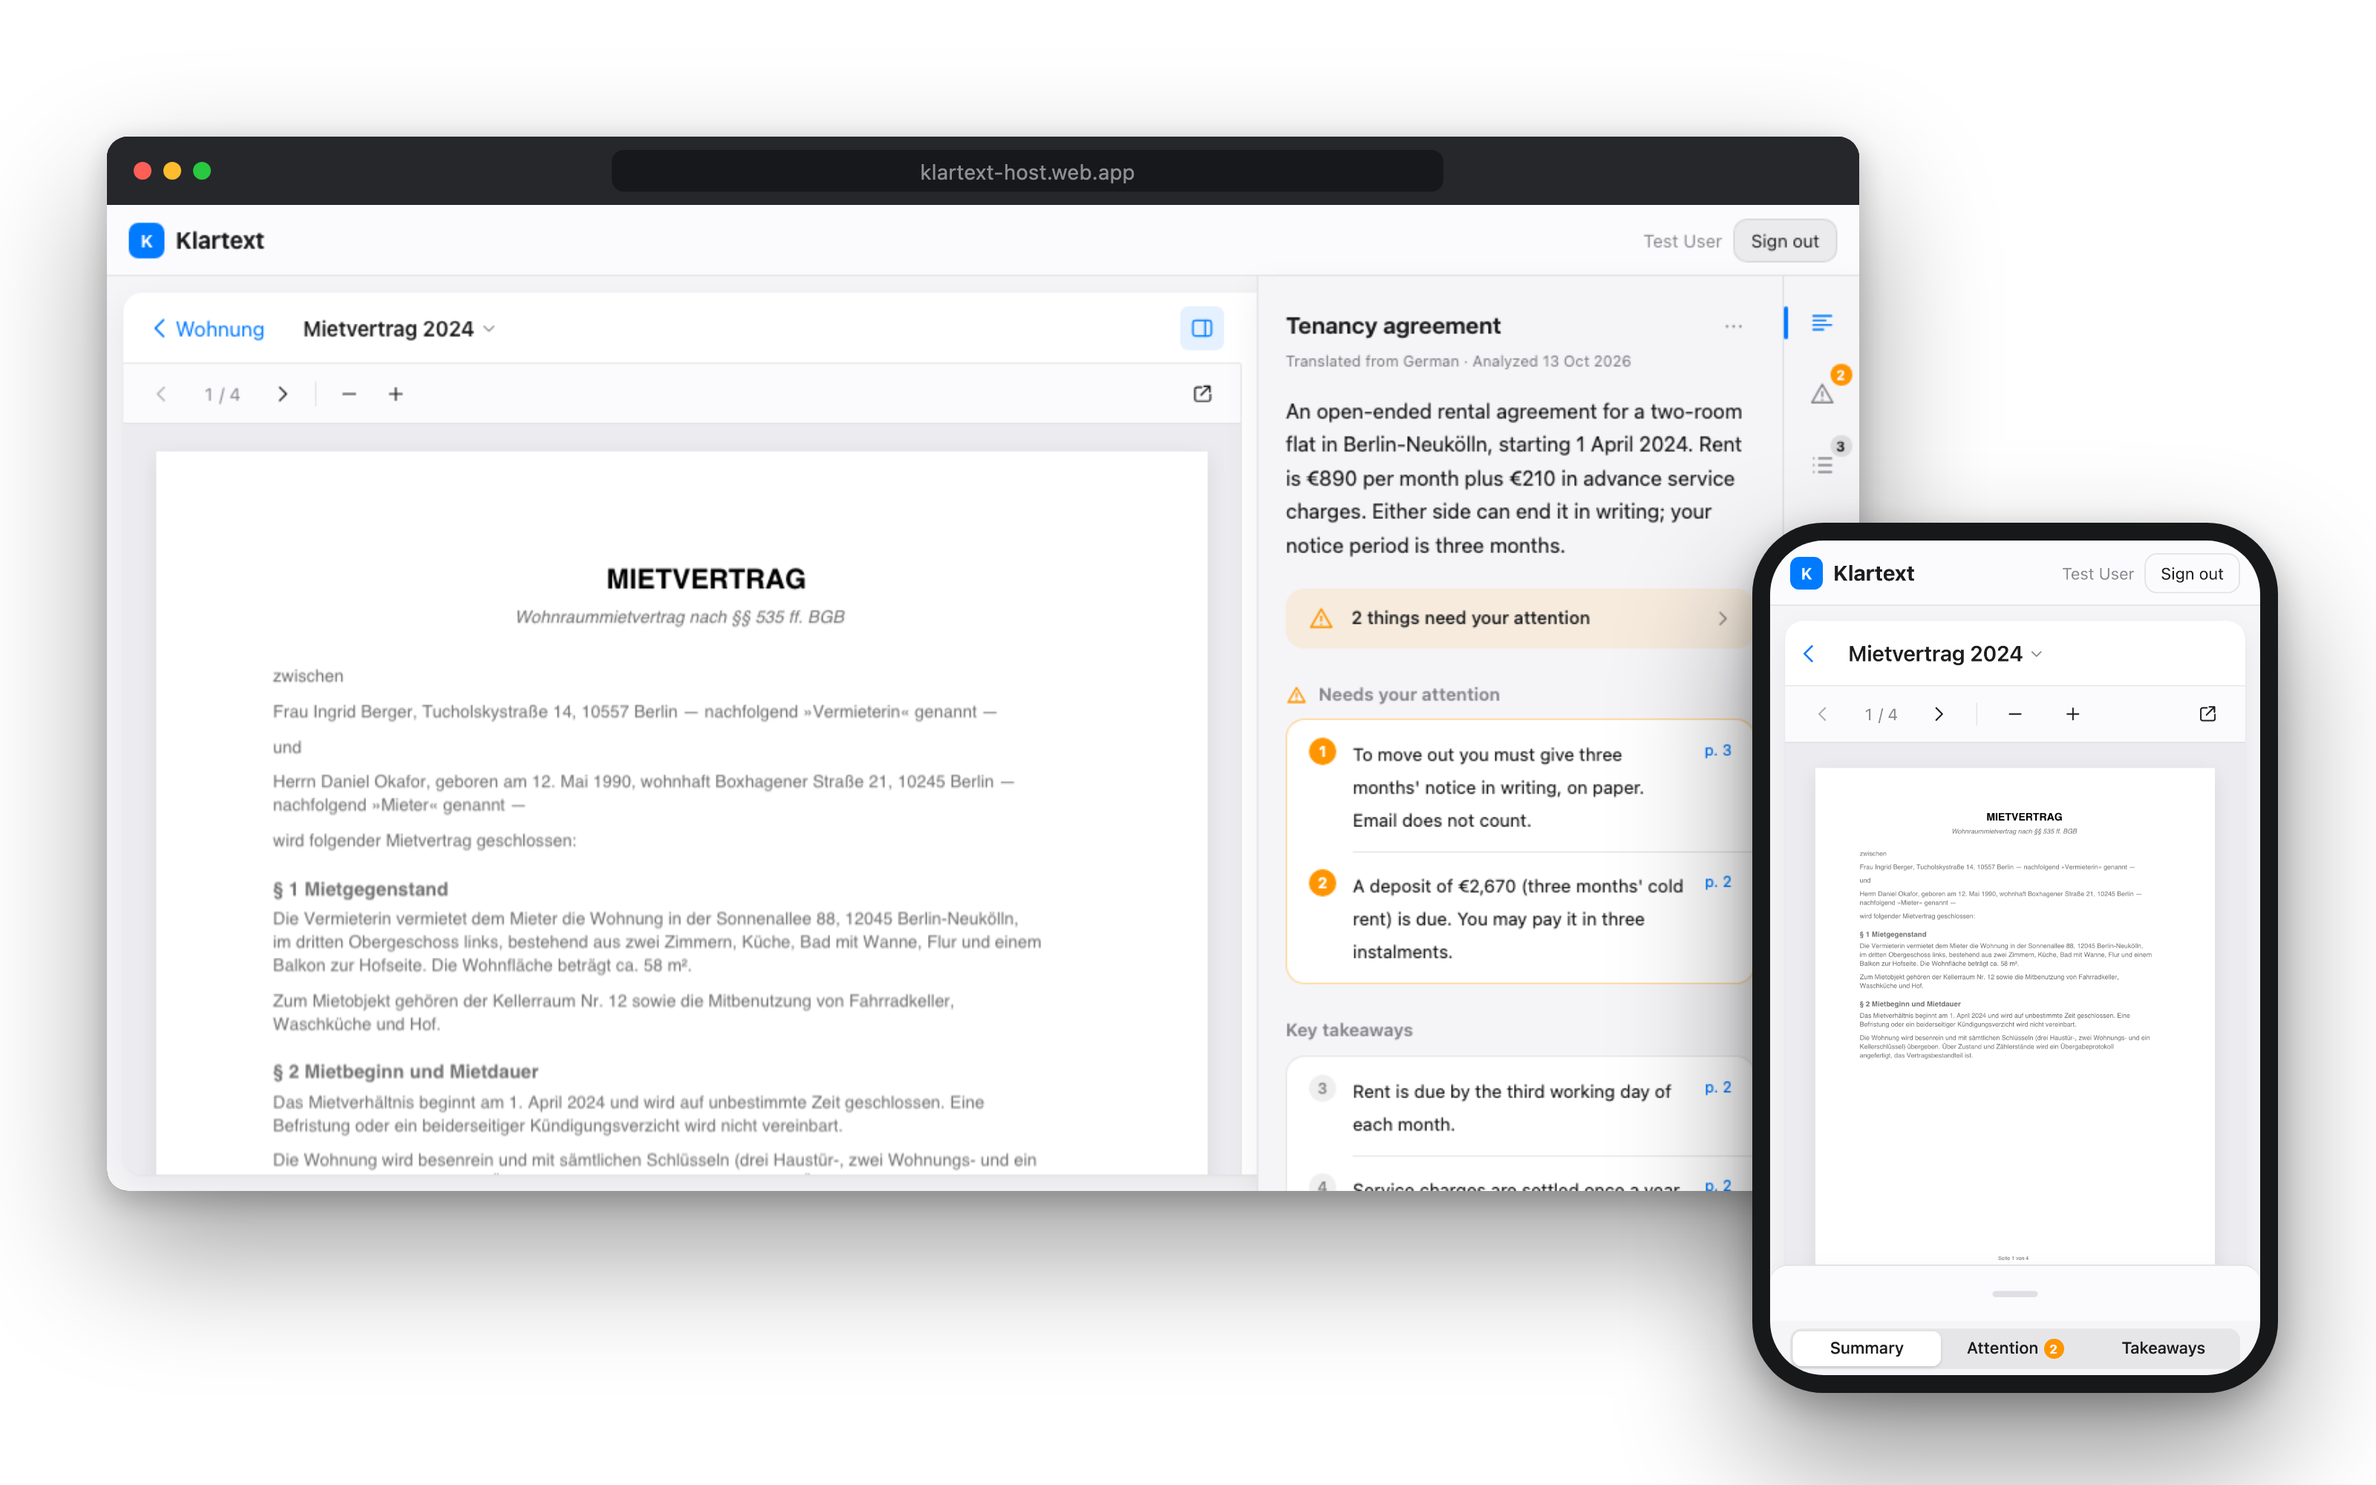
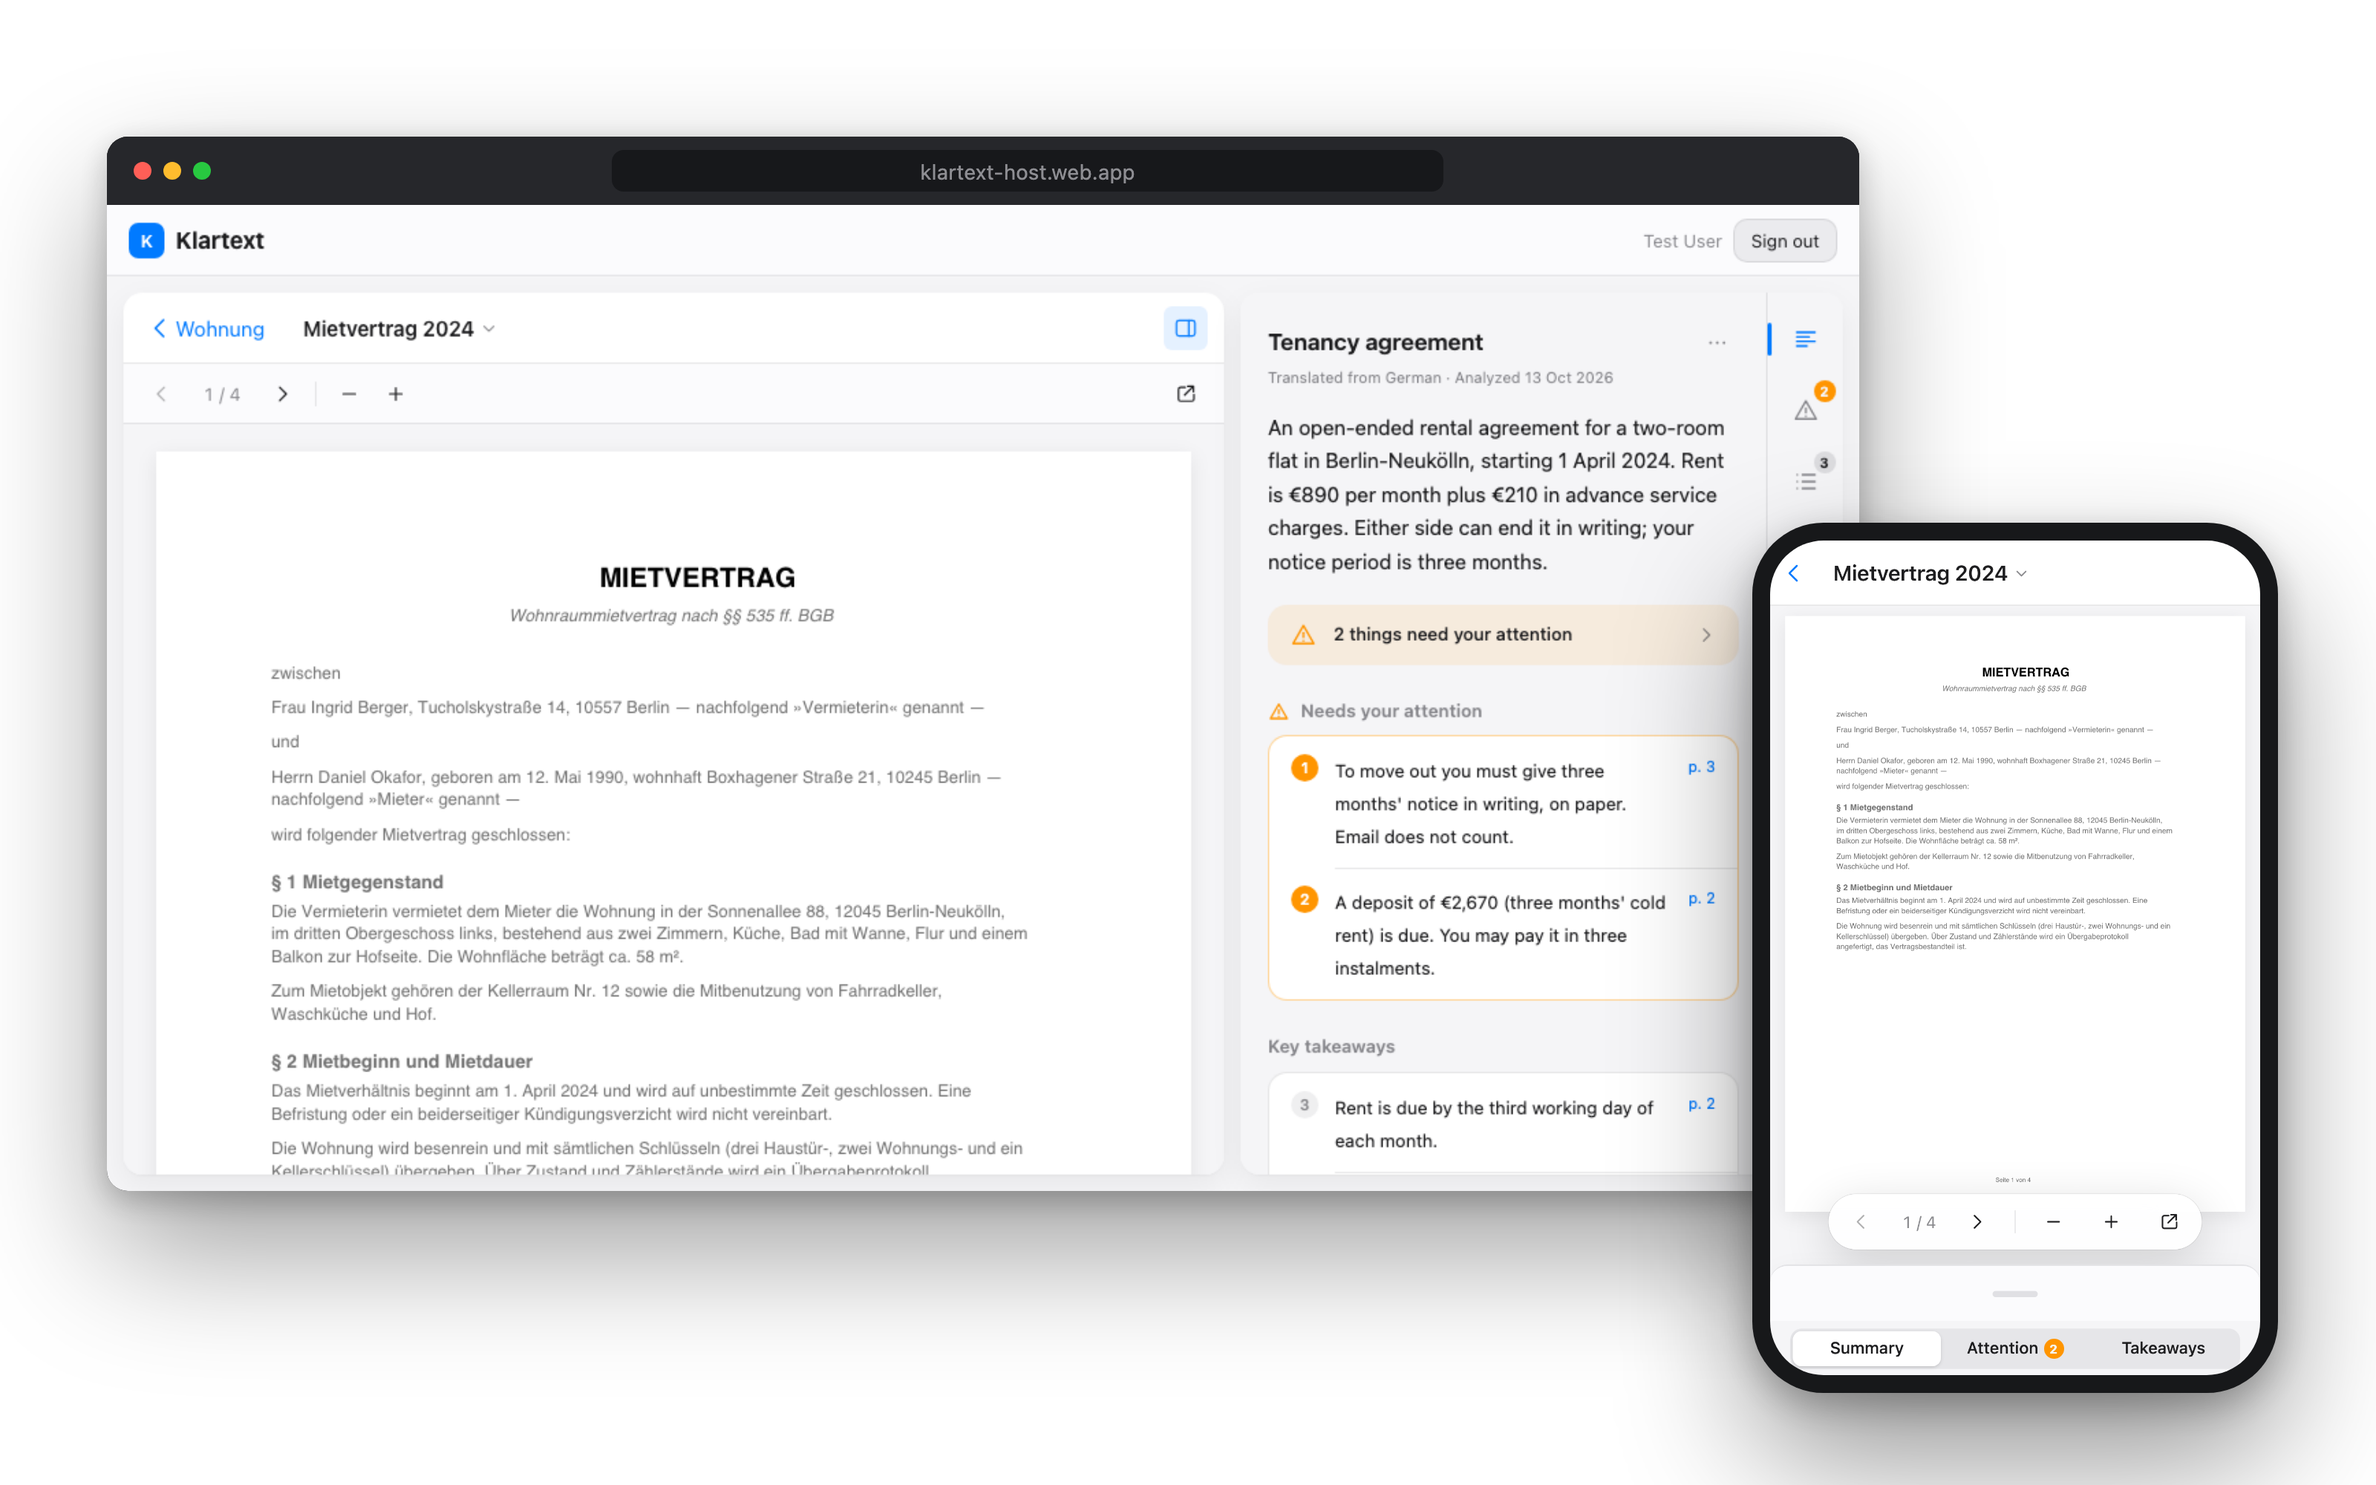
feat(host): floating-card reader on desktop, full-bleed on mobile (#92)
The Guest lane was fixed to the viewport while the reader sat in an inset
card, so the two never aligned. Desktop now floats the lane as its own
card beside the reader; mobile drops the card and brand bar and floats the
PDF chrome as a pill above the sheet, fitting the page to its real gutters.

Generated with [Devin](https://devin.ai)

diff --git a/apps/host/src/app/reader/reader.spec.ts b/apps/host/src/app/reader/reader.spec.ts
@@ -112,11 +112,10 @@ function backButton(el: HTMLElement): HTMLButtonElement {
 }
 
 describe('Reader (issue #29)', () => {
-  it('renders the split view: PDF pane plus the insights slot', async () => {
+  it('renders the PDF pane — the insights lane floats beside it, outside the reader', async () => {
     const { el } = await setup(record('d1', 'Mietvertrag 2024'));
-    expect(el.querySelector('app-pdf-viewer')).toBeTruthy();
+    expect(el.querySelector('.pdf-pane app-pdf-viewer')).toBeTruthy();
     expect(el.querySelector('canvas')).toBeTruthy();
-    expect(el.querySelector('.insights-slot')).toBeTruthy();
   });
 
   it('backs out to the root Folder label for a root Document', async () => {
@@ -192,17 +191,17 @@ describe('Reader (issue #29)', () => {
     // Lane shown: the button is pressed and offers to hide it.
     expect(toggle().getAttribute('aria-pressed')).toBe('true');
     expect(toggle().getAttribute('aria-label')).toBe('Hide insights');
-    expect(el.querySelector('.insights-slot')!.hasAttribute('hidden')).toBe(false);
+    expect(el.querySelector('.reader')!.classList.contains('lane-hidden')).toBe(false);
 
     toggle().click();
     expect(openDocument.toggleInsightsLane).toHaveBeenCalled();
 
-    // Lane hidden: the slot collapses and the button offers to show it.
+    // Lane hidden: the button offers to show it.
     openDocument.insightsLaneHidden.set(true);
     fixture.detectChanges();
     expect(toggle().getAttribute('aria-pressed')).toBe('false');
     expect(toggle().getAttribute('aria-label')).toBe('Show insights');
-    expect(el.querySelector('.insights-slot')!.hasAttribute('hidden')).toBe(true);
+    expect(el.querySelector('.reader')!.classList.contains('lane-hidden')).toBe(true);
   });
 
   // Issue #78: the Reader registers its viewer as the PageFocus navigator —

diff --git a/apps/host/src/app/reader/pdf-viewer.scss b/apps/host/src/app/reader/pdf-viewer.scss
@@ -92,7 +92,7 @@
   flex-direction: column;
   align-items: center;
   padding: kt.$kt-space-5;
-  background: #ececf0;
+  background: kt.$kt-canvas;
 }
 
 .pdf-sheet {
@@ -286,12 +286,29 @@
 
 // ---------- Mobile (≤768px): clear the peeking insights sheet (issue #50) ----------
 @media (max-width: 768px) {
+  // The chrome floats as a pill above the peeking sheet — the reader toolbar
+  // is the only bar on top. The raised sheet (z-index 20) covers it.
   .pdf-chrome {
-    padding: 0 kt.$kt-space-2;
+    position: fixed;
+    left: 50%;
+    bottom: calc(#{kt.$kt-sheet-peek-height} + env(safe-area-inset-bottom, 0px) + #{kt.$kt-space-3});
+    transform: translateX(-50%);
+    z-index: 15;
+    min-height: 0;
+    padding: 0 kt.$kt-space-1;
+    border-bottom: 0;
+    border-radius: 999px;
+    background: rgba(255, 255, 255, 0.88);
+    backdrop-filter: blur(20px) saturate(180%);
+    box-shadow: kt.$kt-shadow-popover;
+  }
+
+  .pdf-chrome-flex {
+    display: none;
   }
 
   // 44px touch targets at phone widths (issue #64); the trimmed padding and
-  // page number keep the row inside 320px.
+  // page number keep the pill inside 320px.
   .pdf-chrome .icon-btn {
     width: kt.$kt-touch-target;
     height: kt.$kt-touch-target;
@@ -302,7 +319,14 @@
   }
 
   .pdf-stage {
-    // The extra gap keeps the last page's tail from resting under the peek chrome.
-    padding-bottom: calc(#{kt.$kt-sheet-peek-height} + #{kt.$kt-space-4});
+    // Slim gutters widen the page; the bottom clears the pill and the peek chrome.
+    padding: kt.$kt-space-2 kt.$kt-space-2
+      calc(#{kt.$kt-sheet-peek-height} + #{kt.$kt-touch-target} + #{kt.$kt-space-6});
+  }
+}
+
+@media (max-width: 359px) {
+  .pdf-chrome-sep {
+    display: none;
   }
 }

diff --git a/apps/host/src/app/reader/reader.scss b/apps/host/src/app/reader/reader.scss
@@ -20,8 +20,6 @@
   align-items: center;
   gap: kt.$kt-space-3;
   padding: 0 kt.$kt-space-3 0 kt.$kt-space-4;
-  // Keeps the stepper clear of the fixed Guest insights lane on the right.
-  margin-right: kt.$kt-insights-width;
   border-bottom: 1px solid kt.$kt-border;
   flex-shrink: 0;
 }
@@ -228,11 +226,6 @@ button.menu-item {
   background: kt.$kt-accent-tint;
 }
 
-// Hiding the lane gives the PDF view — toolbar included — the full width.
-.reader.lane-hidden .reader-toolbar {
-  margin-right: 0;
-}
-
 .split {
   flex: 1;
   display: flex;
@@ -245,26 +238,17 @@ button.menu-item {
   position: relative;
   display: flex;
   flex-direction: column;
-  background: #ececf0;
-}
-
-// Reserves the right-hand lane the visible Guest frame overlays.
-.insights-slot {
-  width: kt.$kt-insights-width;
-  flex-shrink: 0;
-  border-left: 1px solid kt.$kt-border;
-
-  &[hidden] {
-    display: none;
-  }
+  background: kt.$kt-canvas;
 }
 
 // ---------- Mobile (≤768px): push navigation ----------
 @media (max-width: 768px) {
+  // The app's brand bar is hidden while reading, so this is the nav bar —
+  // its surface extends under the status bar (viewport-fit=cover).
   .reader-toolbar {
-    padding: 0 kt.$kt-space-2;
+    min-height: calc(#{kt.$kt-toolbar-height} + env(safe-area-inset-top, 0px));
+    padding: env(safe-area-inset-top, 0px) kt.$kt-space-2 0;
     gap: kt.$kt-space-1;
-    margin-right: 0;
   }
 
   .back-btn .back-label {
@@ -286,11 +270,6 @@ button.menu-item {
 
   // So is the lane toggle (issue #76) — the sheet's detents cover show/hide.
   .lane-toggle {
-    display: none;
-  }
-
-  // The insights lane becomes the Guest's bottom sheet — no slot needed.
-  .insights-slot {
     display: none;
   }
 }

diff --git a/apps/host/src/app/library/library.spec.ts b/apps/host/src/app/library/library.spec.ts
@@ -308,11 +308,26 @@ describe('Library', () => {
     expect(el.querySelector('app-reader .reader')).toBeTruthy();
     expect(el.querySelector('.title-doc')?.textContent).toContain('Mietvertrag 2024');
     expect(el.querySelector('app-pdf-viewer')).toBeTruthy();
-    expect(el.querySelector('.insights-slot')).toBeTruthy();
     expect(el.querySelector('.grid')).toBeNull();
 
     (el.querySelector('.back-btn') as HTMLButtonElement).click();
     expect(openDocument.close).toHaveBeenCalledWith(null);
+  });
+
+  it('makes room for the floating insights lane only while it shows', async () => {
+    const { fixture, openDocument, el } = await setup();
+    expect(el.classList.contains('reading')).toBe(false);
+    expect(el.classList.contains('lane-open')).toBe(false);
+
+    openDocument.docId.set('ready');
+    fixture.detectChanges();
+    expect(el.classList.contains('reading')).toBe(true);
+    expect(el.classList.contains('lane-open')).toBe(true);
+
+    openDocument.insightsLaneHidden.set(true);
+    fixture.detectChanges();
+    expect(el.classList.contains('reading')).toBe(true);
+    expect(el.classList.contains('lane-open')).toBe(false);
   });
 
   it('clicking a ready tile opens the Document', async () => {

diff --git a/apps/host/src/app/reader/pdf-viewer.ts b/apps/host/src/app/reader/pdf-viewer.ts
@@ -32,7 +32,8 @@ const MAX_ZOOM = 2.5;
 const ZOOM_STEP = 0.2;
 /** pdf.js fit-to-width cap, per the prototype's paged viewer (issue #17). */
 const MAX_FIT = 1.4;
-const STAGE_PADDING = 48;
+/** Fit slack beyond the stage's own padding — room for a classic scrollbar. */
+const FIT_SLACK = 8;
 
 /**
  * The Host's paged PDF viewer (issues #17, #29; prototype variant B): one page
@@ -269,8 +270,11 @@ export class PdfViewer {
     try {
       const pdfPage = await pdf.page(n);
       if (generation !== this.generation) return;
-      const fit =
-        stage.clientWidth > STAGE_PADDING ? (stage.clientWidth - STAGE_PADDING) / pdfPage.width : 1;
+      // Fit to the stage's real padding, so the slim mobile gutters widen the page.
+      const style = getComputedStyle(stage);
+      const gutter =
+        (parseFloat(style.paddingLeft) || 0) + (parseFloat(style.paddingRight) || 0) + FIT_SLACK;
+      const fit = stage.clientWidth > gutter ? (stage.clientWidth - gutter) / pdfPage.width : 1;
       const scale = Math.min(fit, MAX_FIT) * this.zoom();
       await pdfPage.render(canvas, scale);
       if (generation !== this.generation) return;

diff --git a/apps/host/src/app/guest-frame.scss b/apps/host/src/app/guest-frame.scss
@@ -1,16 +1,19 @@
 @use 'tokens' as kt;
 
-// Overlays the insights lane the reader reserves (issue #28). Hidden via the
-// `hidden` attribute while no Document is open — the iframe stays mounted.
+// The insights lane (issue #28): a card floating beside the reader card,
+// inset by the same gap as the app content — the library makes room for it.
+// Hidden via the `hidden` attribute while no Document is open — the iframe
+// stays mounted.
 .guest-frame-host {
   position: fixed;
-  top: kt.$kt-toolbar-height;
-  right: 0;
-  bottom: 0;
+  top: calc(#{kt.$kt-toolbar-height} + #{kt.$kt-space-3});
+  right: kt.$kt-space-3;
+  bottom: kt.$kt-space-3;
   width: kt.$kt-insights-width;
   background: kt.$kt-surface;
-  border-left: 1px solid kt.$kt-border;
+  border-radius: kt.$kt-radius-lg;
   box-shadow: kt.$kt-shadow-panel;
+  overflow: hidden;
   z-index: 20;
 
   &[hidden] {
@@ -48,7 +51,6 @@
     right: 0;
     bottom: 0;
     width: auto;
-    border-left: 0;
     border-top: 1px solid kt.$kt-border;
     border-radius: kt.$kt-radius-lg kt.$kt-radius-lg 0 0;
     transition: height 0.2s ease;

diff --git a/apps/host/src/app/app.ts b/apps/host/src/app/app.ts
@@ -1,7 +1,8 @@
-import { Component, inject } from '@angular/core';
+import { Component, computed, inject } from '@angular/core';
 import { RouterOutlet } from '@angular/router';
 import { AuthService } from './auth.service';
 import { GuestFrame } from './guest-frame';
+import { OpenDocument } from './open-document';
 import { SignInGate } from './sign-in-gate';
 import { ToastOutlet } from './toasts/toast-outlet';
 
@@ -17,6 +18,9 @@ import { ToastOutlet } from './toasts/toast-outlet';
 export class App {
   protected readonly auth = inject(AuthService);
   protected readonly user = this.auth.user;
+  /** A Document is open — the mobile reader goes full-bleed (no brand bar, no inset). */
+  private readonly openDocId = inject(OpenDocument).docId;
+  protected readonly reading = computed(() => this.openDocId() !== null);
 
   protected signOut(): void {
     void this.auth.signOut();

diff --git a/apps/host/src/app/library/library.scss b/apps/host/src/app/library/library.scss
@@ -11,6 +11,21 @@
   overflow: hidden;
 }
 
+// The reader card and the Guest's insights lane float as two cards with a
+// gap between them (desktop). On mobile the reader drops the card entirely.
+@media (min-width: 769px) {
+  :host(.lane-open) {
+    margin-right: calc(#{kt.$kt-insights-width} + #{kt.$kt-space-3});
+  }
+}
+
+@media (max-width: 768px) {
+  :host(.reading) {
+    border-radius: 0;
+    box-shadow: none;
+  }
+}
+
 .browse {
   flex: 1;
   display: flex;

diff --git a/apps/host/src/app/library/library.ts b/apps/host/src/app/library/library.ts
@@ -56,6 +56,9 @@ type DialogState =
   ],
   host: {
     '(document:keydown.escape)': 'closeAddMenu()',
+    '[class.reading]': 'openDocument.docId() !== null',
+    // Desktop: the card makes room for the floating insights lane beside it.
+    '[class.lane-open]': 'openDocument.docId() !== null && !openDocument.insightsLaneHidden()',
   },
   // The data layer is scoped to the signed-in session: this component only
   // exists inside the auth gate's signed-in branch.

diff --git a/apps/host/src/app/app.scss b/apps/host/src/app/app.scss
@@ -102,3 +102,18 @@
   background: kt.$kt-canvas;
   padding: kt.$kt-space-3;
 }
+
+// ---------- Mobile (≤768px) reader: full-bleed ----------
+// The reader toolbar becomes the nav bar — brand and Sign out stay in the
+// library — and the Document fills the screen instead of an inset card.
+@media (max-width: 768px) {
+  .layout.reading {
+    > .toolbar {
+      display: none;
+    }
+
+    .content {
+      padding: 0;
+    }
+  }
+}

diff --git a/apps/host/src/app/library/library.html b/apps/host/src/app/library/library.html
@@ -1,6 +1,6 @@
 @if (store.openDoc(); as openDoc) {
-  <!-- Open-Document view (issue #29): the Guest iframe displays over the
-       reader's .insights-slot while a Document is open (issue #16). -->
+  <!-- Open-Document view (issue #29): the Guest iframe floats beside this
+       card while a Document is open (issue #16). -->
   <app-reader [doc]="openDoc" />
 } @else {
   <div class="browse">

diff --git a/apps/host/src/app/app.html b/apps/host/src/app/app.html
@@ -1,7 +1,7 @@
 @if (user() === undefined) {
   <div class="boot"><span class="spinner" role="status" aria-label="Loading"></span></div>
 } @else if (user(); as user) {
-  <div class="layout">
+  <div class="layout" [class.reading]="reading()">
     <header class="toolbar">
       <span class="brand-mark">K</span>
       <span class="brand-name">Klartext</span>
